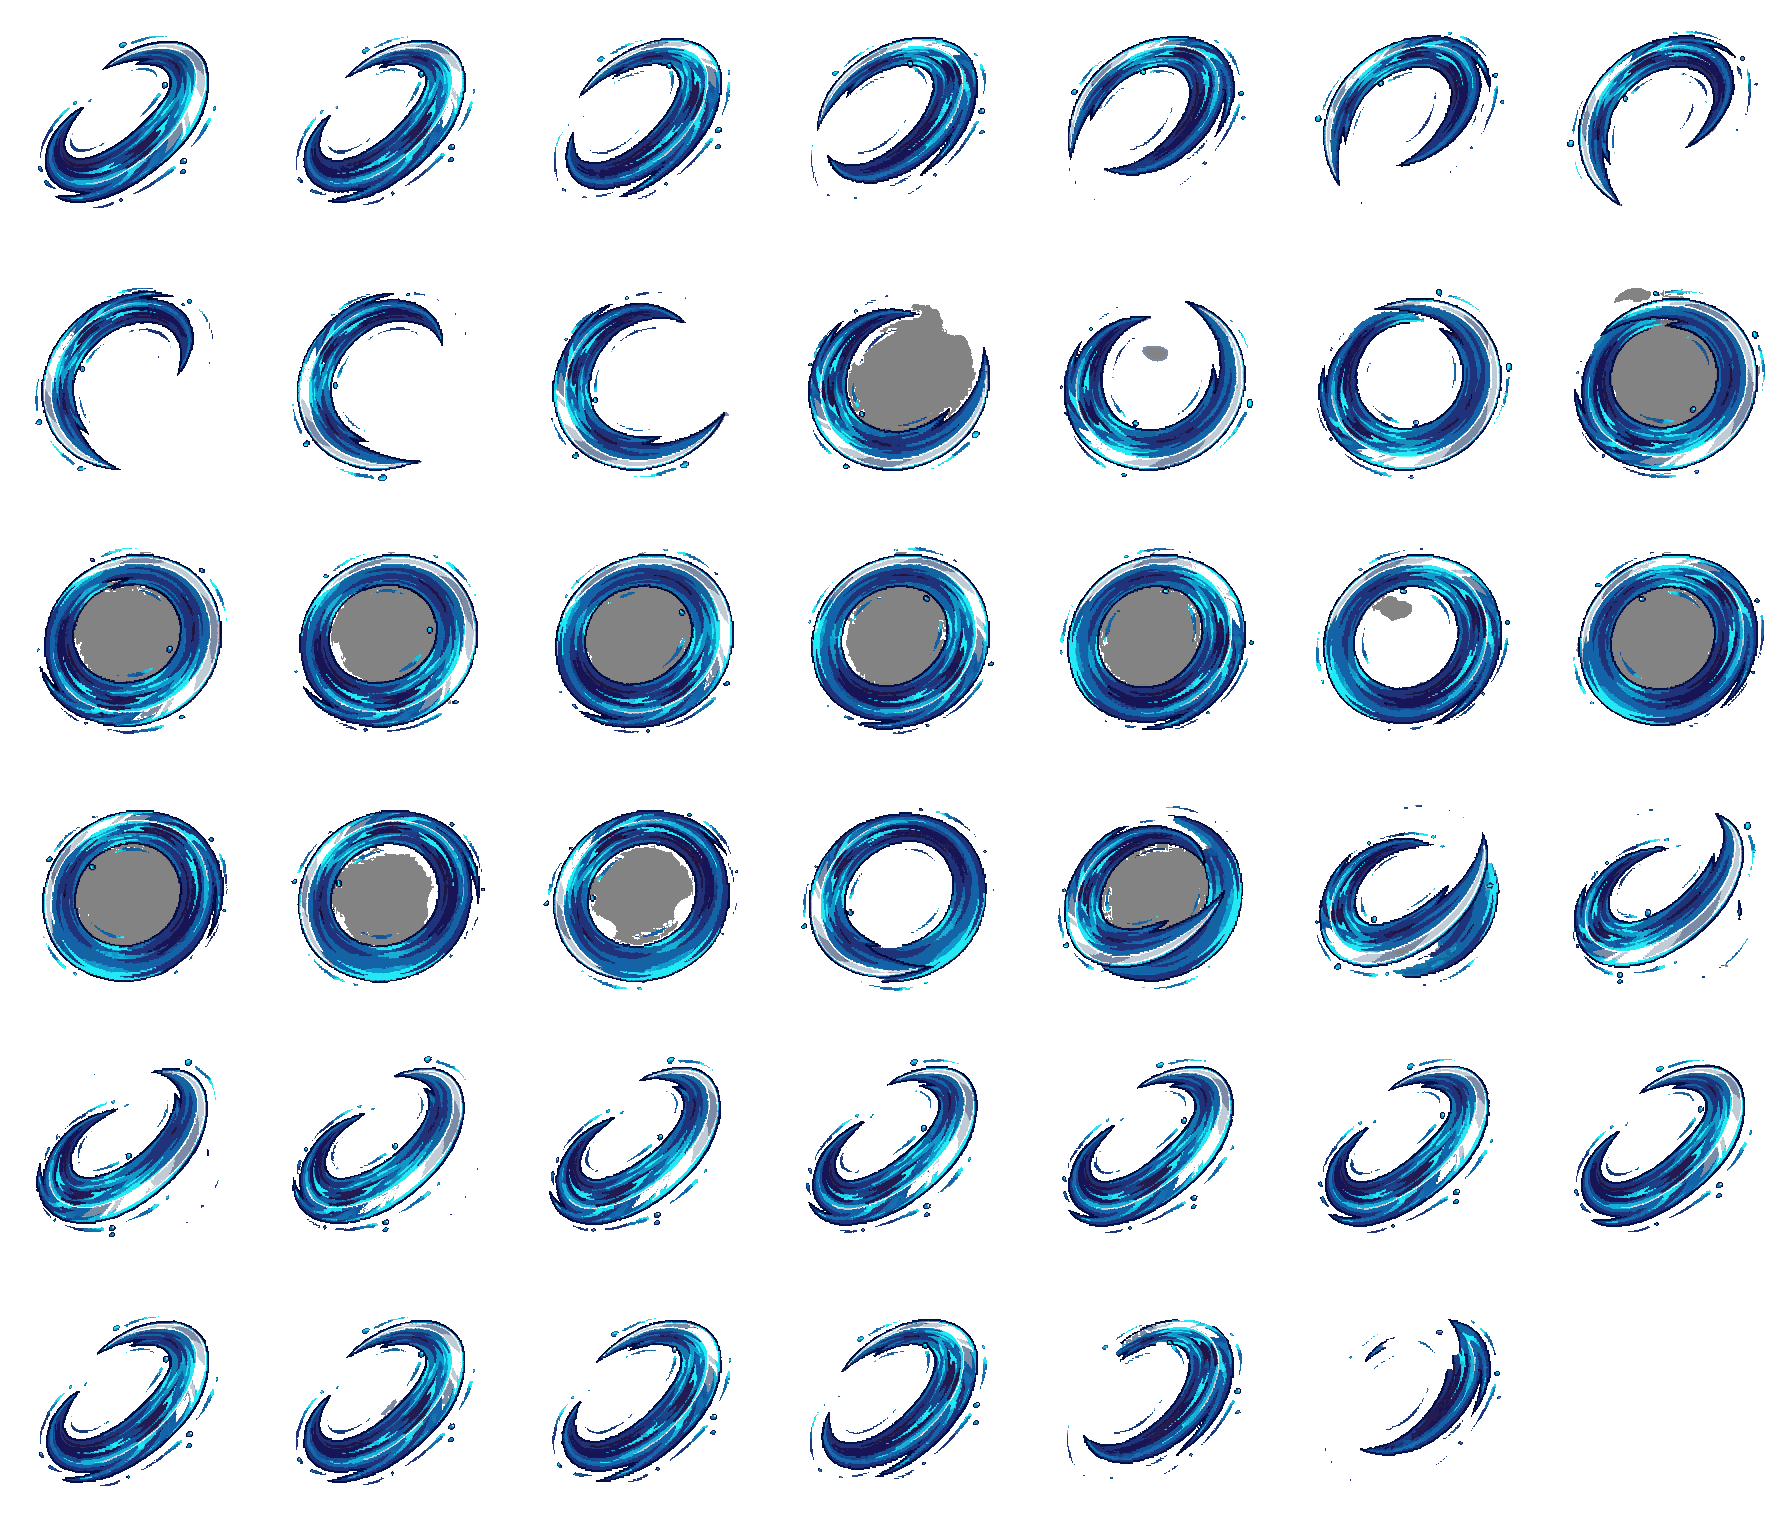
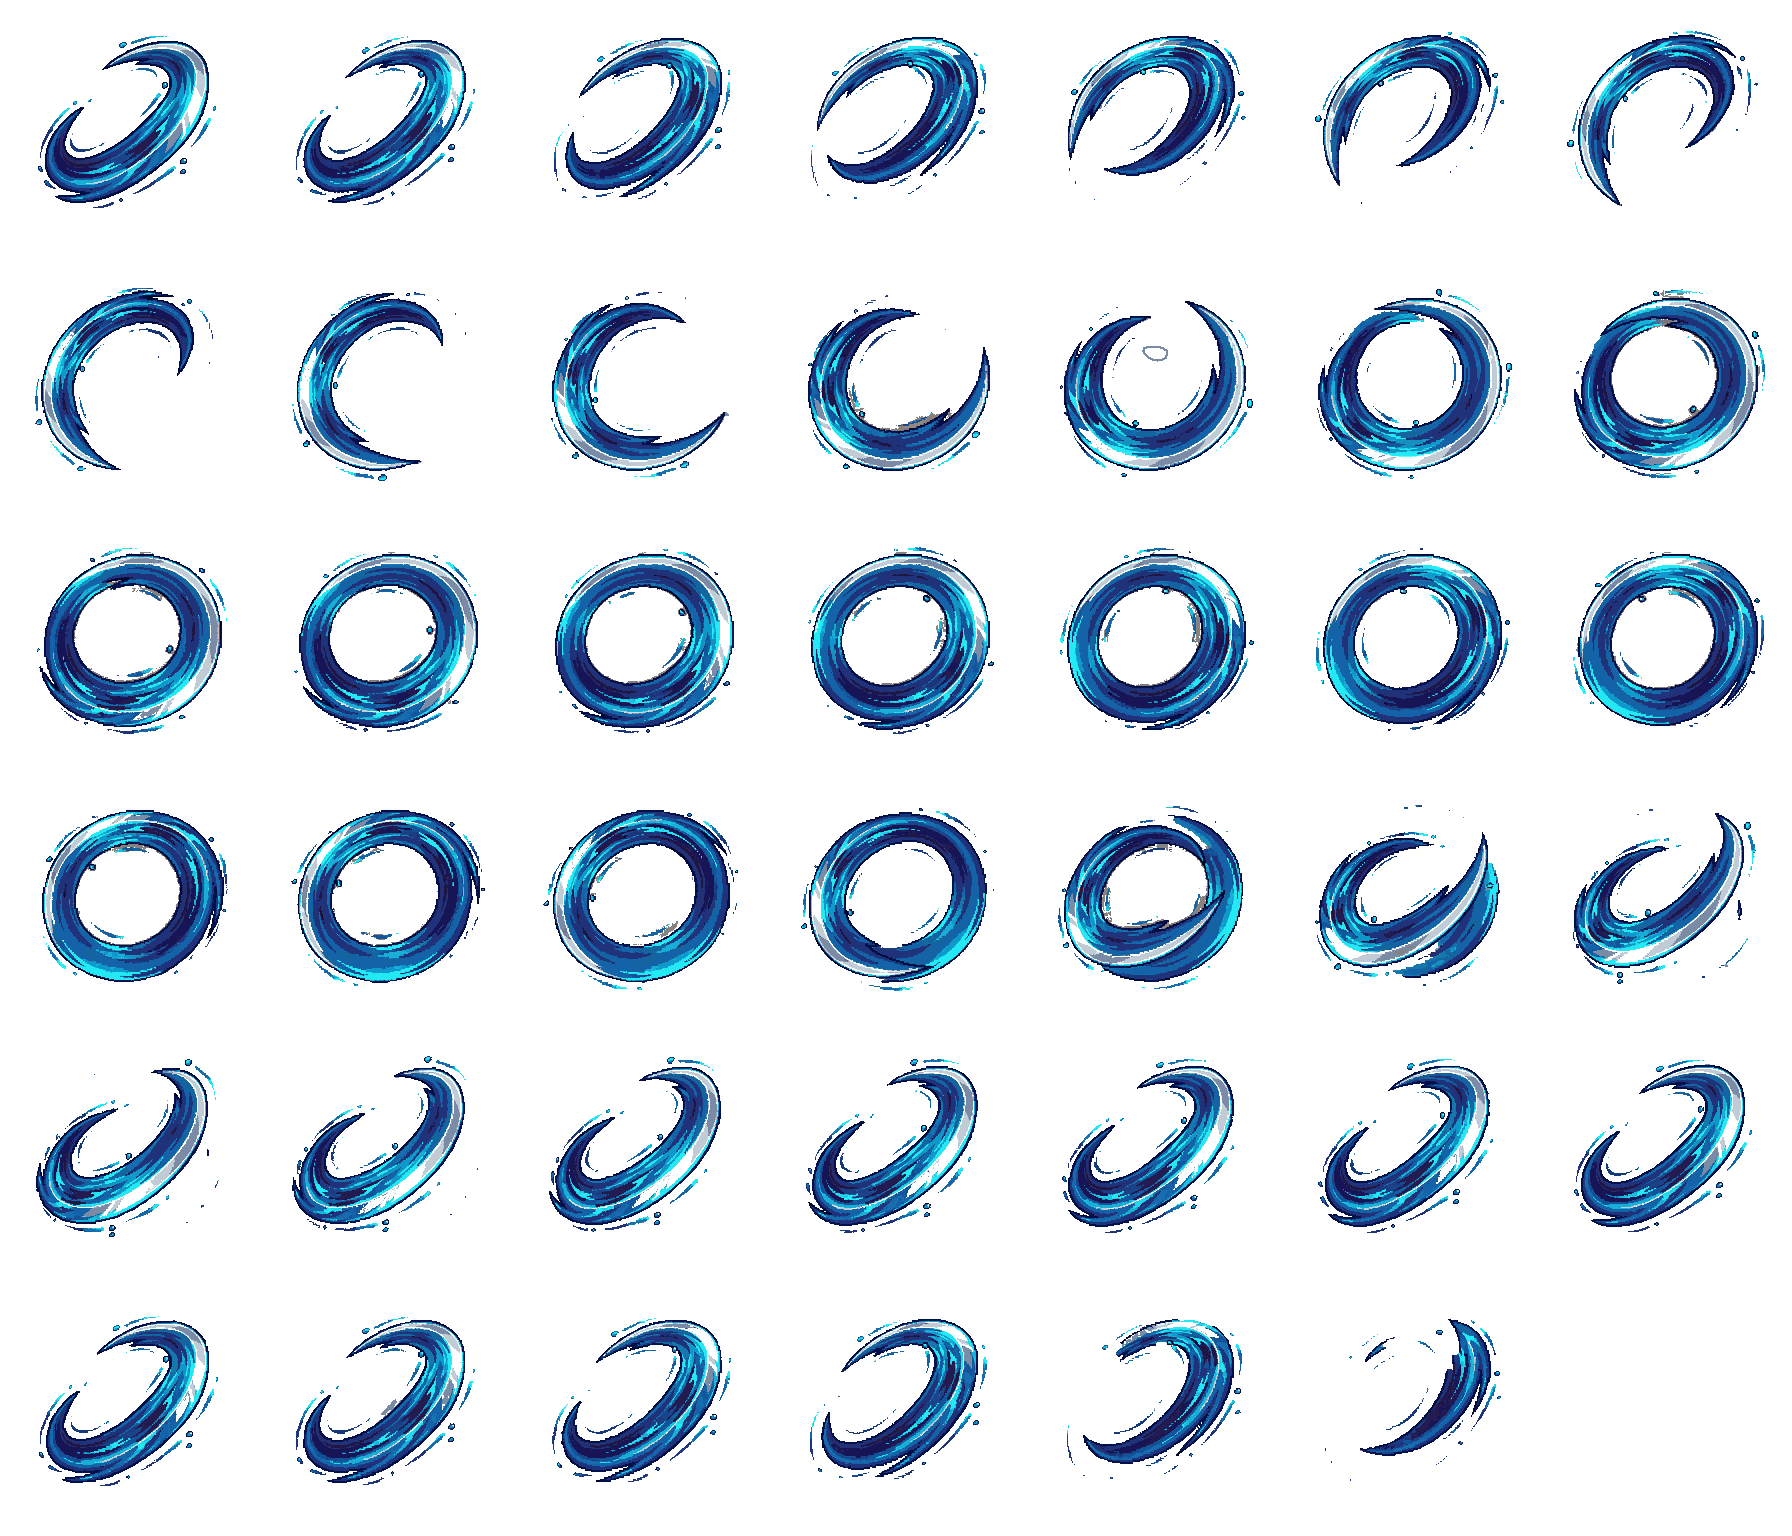
fix(vfx): remove preenchimento cinza dos cortes do espadachim

diff --git a/docs/CLASS-SKILL-VFX.md b/docs/CLASS-SKILL-VFX.md
@@ -18,3 +18,5 @@ Blindagem e Bênção: somente regiões centrais cinzentas conectadas foram torn
 As dez habilidades foram acionadas em navegador isolado com o modelo masculino; nenhum erro de execução observado. Capturas e GIFs ficam fora do repositório. O backend real não foi validado; nomes de projéteis enviados ao servidor permanecem gunner/mage.
 
 Publicação autorizada em 05/11/2026. Protocolo passa atrás de todas as entidades, centrado no ponto de ativação e recortado pelo raio real range + 125 usado na seleção de alvos, sem largura fixa de 580 px. Corte de Maré: 21 quadros em 250 ms a partir do dano no contato; Arco do Horizonte: 41 quadros em 350 ms com ataque e dano de área no contato. Ambos reaproveitam os exports do proprietário; atributos e recargas mantidos. As duas habilidades foram acionadas e capturadas em navegador isolado.
+
+Transparência dos cortes: removidos apenas preenchimentos cinzas conectados identificados nos exports (11.930 pixels no Corte e 89.467 no Arco), preservando cores/linhas azuis. Correção no PixelLab Workbench: 558d6802-94e6-47fb-b06b-47cc7a3db429, a160713d-b432-4b04-80ad-458ff171ca81, 0e9d317c-6836-44fa-bcac-eeec1e0571f9 e eb6bdac0-8808-4445-ad49-ecd9177609c7. Revalidados casts e capturas reais após a correção.
